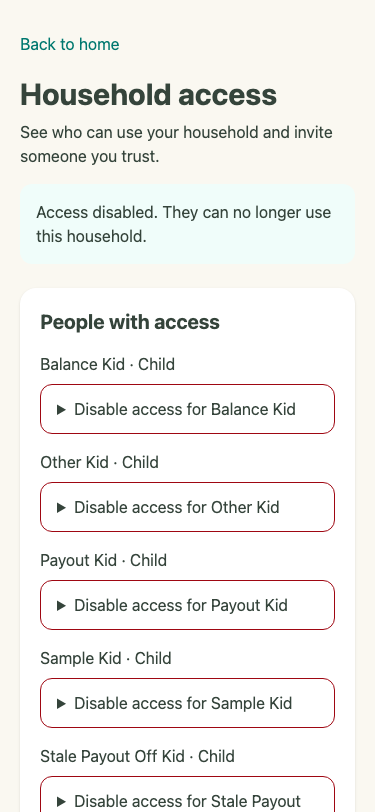
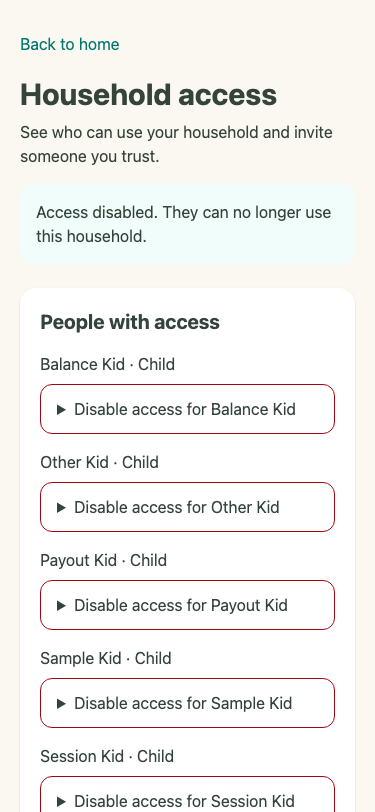
feat(sessions): let people review and sign out their own devices
Wraps Better Auth listSessions/revokeSession/revokeOtherSessions at
/settings/sessions; account-scoped, no raw tokens, cross-household
effect stated. Documents framework limits.

Changed region(s): [[0.528, 0.9236, 0.8213, 1.0], [0.1173, 0.9236, 0.4987, 0.9544]]

diff --git a/tests/sessions.integration.test.ts b/tests/sessions.integration.test.ts
@@ -1,0 +1,82 @@
+import { afterEach, expect, it } from 'vitest';
+import Database from 'better-sqlite3';
+import { createAuth, migrate, authorizeRequest } from '../src/lib/server/identity';
+import { SessionManagementError, listAccountSessions, revokeAccountSession, revokeOtherAccountSessions } from '../src/lib/server/sessions';
+import { disableMember } from '../src/lib/server/household-access';
+
+const origin = 'http://localhost:3000';
+const dbs: Database.Database[] = [];
+afterEach(() => { for (const db of dbs.splice(0)) db.close(); });
+const post = (path: string, body: unknown) => new Request(`${origin}/api/auth/${path}`, { method: 'POST', headers: { 'content-type': 'application/json', origin, 'user-agent': 'Mozilla/5.0 (iPhone; CPU iPhone OS 17_0 like Mac OS X) AppleWebKit/605.1.15 Version/17.0 Mobile/15E148 Safari/604.1' }, body: JSON.stringify(body) });
+
+async function fixture() {
+  const db = new Database(':memory:'); dbs.push(db); db.pragma('foreign_keys = ON');
+  await migrate(db);
+  const auth = createAuth(db, { secret: 'synthetic-session-test-secret-over-32-characters', origin, allowSignUp: true, autoSignIn: false });
+  const make = async (name: string, email: string) => (await auth.api.signUpEmail({ body: { name, email, password: 'synthetic-password-123' } })).user.id;
+  const parent = await make('Parent', 'parent@example.test'), kid = await make('Kid', 'kid@example.test');
+  db.prepare('INSERT INTO household (id, name) VALUES (?, ?), (?, ?)').run('house-a', 'A', 'house-b', 'B');
+  const add = db.prepare('INSERT INTO membership (user_id, household_id, role) VALUES (?, ?, ?)');
+  add.run(parent, 'house-a', 'parent'); add.run(kid, 'house-a', 'kid'); add.run(kid, 'house-b', 'kid');
+  const signIn = async (email: string) => new Headers({ cookie: (await auth.handler(post('sign-in/email', { email, password: 'synthetic-password-123' }))).headers.get('set-cookie')!.split(';')[0], origin });
+  return { db, auth, parent, kid, signIn };
+}
+
+it('lists only the caller\'s sessions, marks the current one and never exposes a token', async () => {
+  const f = await fixture();
+  const phone = await f.signIn('kid@example.test'), laptop = await f.signIn('kid@example.test'), parentSession = await f.signIn('parent@example.test');
+  const sessions = await listAccountSessions(f.auth, phone);
+  expect(sessions).toHaveLength(2);
+  expect(sessions.filter((s) => s.current)).toHaveLength(1);
+  expect(sessions[0].device).toBe('Safari on iOS');
+  const tokens = (f.db.prepare('SELECT token FROM session').all() as { token: string }[]).map((r) => r.token);
+  for (const token of tokens) expect(JSON.stringify(sessions).includes(token)).toBe(false);
+  expect((await listAccountSessions(f.auth, parentSession))).toHaveLength(1);
+  void laptop;
+});
+
+it('revokes one other session, refuses another account\'s id and the current session, and tolerates repeats', async () => {
+  const f = await fixture();
+  const phone = await f.signIn('kid@example.test'), laptop = await f.signIn('kid@example.test'), parentSession = await f.signIn('parent@example.test');
+  const [other] = (await listAccountSessions(f.auth, phone)).filter((s) => !s.current);
+  const [parentRow] = await listAccountSessions(f.auth, parentSession);
+  expect(await revokeAccountSession(f.auth, phone, parentRow.id)).toEqual({ revoked: false });
+  expect(await f.auth.api.getSession({ headers: parentSession })).not.toBeNull();
+  const [self] = (await listAccountSessions(f.auth, phone)).filter((s) => s.current);
+  expect(await revokeAccountSession(f.auth, phone, self.id)).toEqual({ revoked: false });
+  expect(await revokeAccountSession(f.auth, phone, other.id)).toEqual({ revoked: true });
+  expect(await revokeAccountSession(f.auth, phone, other.id)).toEqual({ revoked: false });
+  expect(await f.auth.api.getSession({ headers: laptop })).toBeNull();
+  expect(await f.auth.api.getSession({ headers: phone })).not.toBeNull();
+});
+
+it('signs out other devices across every household without touching membership or other accounts', async () => {
+  const f = await fixture();
+  const phone = await f.signIn('kid@example.test'), laptop = await f.signIn('kid@example.test'), parentSession = await f.signIn('parent@example.test');
+  const members = JSON.stringify(f.db.prepare('SELECT * FROM membership ORDER BY 1, 2').all());
+  await revokeOtherAccountSessions(f.auth, phone);
+  expect(await f.auth.api.getSession({ headers: laptop })).toBeNull();
+  expect(await authorizeRequest(f.auth, f.db, laptop, 'house-a', 'read')).toBe(false);
+  expect(await authorizeRequest(f.auth, f.db, laptop, 'house-b', 'read')).toBe(false);
+  expect(await authorizeRequest(f.auth, f.db, phone, 'house-b', 'read')).toBe(true);
+  expect(await f.auth.api.getSession({ headers: parentSession })).not.toBeNull();
+  expect(JSON.stringify(f.db.prepare('SELECT * FROM membership ORDER BY 1, 2').all())).toBe(members);
+});
+
+it('keeps session management separate from household membership', async () => {
+  const f = await fixture();
+  const kid = await f.signIn('kid@example.test');
+  disableMember(f.db, f.parent, 'house-a', f.kid);
+  expect(await listAccountSessions(f.auth, kid)).toHaveLength(1);
+  expect(await authorizeRequest(f.auth, f.db, kid, 'house-a', 'read')).toBe(false);
+  expect(await authorizeRequest(f.auth, f.db, kid, 'house-b', 'read')).toBe(true);
+});
+
+it('rejects anonymous callers and asks an old session to sign in again', async () => {
+  const f = await fixture();
+  await expect(listAccountSessions(f.auth, new Headers())).rejects.toMatchObject({ code: 'signed-out' });
+  const headers = await f.signIn('kid@example.test');
+  f.db.prepare('UPDATE session SET createdAt = ?').run(Date.now() - 3 * 24 * 60 * 60 * 1000);
+  await expect(listAccountSessions(f.auth, headers)).rejects.toBeInstanceOf(SessionManagementError);
+  await expect(listAccountSessions(f.auth, headers)).rejects.toMatchObject({ code: 'reauthenticate' });
+});

diff --git a/src/lib/server/sessions.ts b/src/lib/server/sessions.ts
@@ -1,0 +1,57 @@
+import type { createAuth } from './identity';
+
+type Auth = ReturnType<typeof createAuth>;
+
+/**
+ * Account-level session management over Better Auth's own session API. Sessions are global
+ * to an account and carry no household, so everything here is scoped to the signed-in user:
+ * a parent never sees or revokes another person's sessions, and ending a session says nothing
+ * about household membership (that is `household-access.ts`). Raw session tokens never leave
+ * this module; callers get the session row id.
+ */
+export type SessionSummary = { id: string; current: boolean; device: string; createdAt: number; lastActiveAt: number; expiresAt: number };
+
+export class SessionManagementError extends Error {
+  constructor(readonly code: 'signed-out' | 'reauthenticate' | 'unavailable') { super(code); }
+}
+
+function describeDevice(userAgent: string | null | undefined) {
+  if (!userAgent) return 'Unknown device';
+  const browser = /Edg\//.test(userAgent) ? 'Edge' : /Firefox\//.test(userAgent) ? 'Firefox' : /Chrome\//.test(userAgent) ? 'Chrome' : /Safari\//.test(userAgent) ? 'Safari' : 'Browser';
+  const system = /iPhone|iPad/.test(userAgent) ? 'iOS' : /Android/.test(userAgent) ? 'Android' : /Mac OS X/.test(userAgent) ? 'macOS' : /Windows/.test(userAgent) ? 'Windows' : /Linux/.test(userAgent) ? 'Linux' : 'Unknown system';
+  return `${browser} on ${system}`;
+}
+
+async function entries(auth: Auth, headers: Headers) {
+  const current = await auth.api.getSession({ headers });
+  if (!current) throw new SessionManagementError('signed-out');
+  try {
+    // Better Auth requires a recently created session to list; an older one must sign in again.
+    const sessions = await auth.api.listSessions({ headers });
+    return { current, sessions };
+  } catch { throw new SessionManagementError('reauthenticate'); }
+}
+
+export async function listAccountSessions(auth: Auth, headers: Headers): Promise<SessionSummary[]> {
+  const { current, sessions } = await entries(auth, headers);
+  return sessions
+    .map((session) => ({ id: session.id, current: session.token === current.session.token, device: describeDevice(session.userAgent), createdAt: new Date(session.createdAt).getTime(), lastActiveAt: new Date(session.updatedAt).getTime(), expiresAt: new Date(session.expiresAt).getTime() }))
+    .sort((a, b) => Number(b.current) - Number(a.current) || b.lastActiveAt - a.lastActiveAt || a.id.localeCompare(b.id));
+}
+
+/** Ends one of the caller's other sessions. An id that is not the caller's, or is already gone, changes nothing. */
+export async function revokeAccountSession(auth: Auth, headers: Headers, id: string): Promise<{ revoked: boolean }> {
+  const { current, sessions } = await entries(auth, headers);
+  const target = sessions.find((session) => session.id === id);
+  if (!target || target.token === current.session.token) return { revoked: false };
+  try { await auth.api.revokeSession({ headers, body: { token: target.token } }); }
+  catch { throw new SessionManagementError('unavailable'); }
+  return { revoked: true };
+}
+
+/** Ends every session except the current one, on every device and for every household the account belongs to. */
+export async function revokeOtherAccountSessions(auth: Auth, headers: Headers) {
+  if (!await auth.api.getSession({ headers })) throw new SessionManagementError('signed-out');
+  try { await auth.api.revokeOtherSessions({ headers }); }
+  catch { throw new SessionManagementError('unavailable'); }
+}

diff --git a/e2e/sessions.spec.ts b/e2e/sessions.spec.ts
@@ -1,0 +1,44 @@
+import { expect, test, type Browser } from '@playwright/test';
+
+const base = 'http://127.0.0.1:4173';
+async function device(browser: Browser) {
+  const context = await browser.newContext({ viewport: { width: 375, height: 812 } });
+  const page = await context.newPage();
+  await page.goto('/sign-in');
+  await page.getByLabel('Email').fill('session-kid@example.test');
+  await page.getByLabel('Password').fill('synthetic-session-kid-password');
+  await page.getByRole('button', { name: 'Sign in' }).click();
+  await expect(page.getByRole('heading', { name: "Session Kid's My Day" })).toBeVisible();
+  return { context, page };
+}
+
+test('a user signs out one other device, then all others, against real sessions', async ({ browser }) => {
+  const phone = await device(browser), laptop = await device(browser), tablet = await device(browser);
+  try {
+    await phone.page.goto('/settings/sessions');
+    await expect(phone.page.getByRole('heading', { name: 'Signed-in devices' })).toBeVisible();
+    await expect(phone.page.getByText(/· This device/)).toHaveCount(1);
+    const token = (await phone.context.cookies()).find((cookie) => cookie.name.includes('session_token'))?.value ?? '';
+    expect(token.length).toBeGreaterThan(10);
+    expect(await phone.page.content()).not.toContain(token.split('.')[0]);
+    const rows = phone.page.getByRole('listitem').filter({ hasText: 'Signed in' });
+    await expect(rows).toHaveCount(3);
+    const other = rows.filter({ hasNotText: /· This device/ }).first();
+    await other.getByText('Sign out this device').click();
+    await other.getByRole('button', { name: /Confirm sign out of/ }).click();
+    await expect(phone.page.getByRole('status')).toContainText('was signed out');
+    await expect(rows).toHaveCount(2);
+    await phone.page.screenshot({ path: 'docs/screenshots/sessions-mobile.png' });
+    const forged = await phone.page.request.post('/settings/sessions?/revoke', { form: { id: 'not-a-session' }, headers: { origin: base } });
+    expect(JSON.stringify(await forged.json())).toContain('already gone');
+    const crossOrigin = await phone.page.request.post('/settings/sessions?/revokeOthers', { form: {}, headers: { origin: 'https://attacker.example.test' } });
+    expect(crossOrigin.status()).toBe(403);
+    await phone.page.getByText('Sign out all other devices').click();
+    await phone.page.getByRole('button', { name: 'Confirm sign out of all other devices' }).click();
+    await expect(phone.page.getByRole('status')).toContainText('All other devices were signed out');
+    await expect(rows).toHaveCount(1);
+    const survivors = await Promise.all([laptop, tablet].map(async ({ page }) => (await page.request.get('/dashboard', { maxRedirects: 0 })).status()));
+    expect(survivors.filter((status) => status === 200).length).toBe(0);
+    expect((await phone.page.request.get('/dashboard')).status()).toBe(200);
+  } finally { await phone.context.close(); await laptop.context.close(); await tablet.context.close(); }
+});

diff --git a/src/routes/settings/sessions/+page.svelte b/src/routes/settings/sessions/+page.svelte
@@ -1,0 +1,27 @@
+<script lang="ts">
+  import { resolve } from '$app/paths';
+  import type { PageData } from './$types';
+  let { data, form }: { data: PageData; form: { message?: string } | null } = $props();
+  const when = (value: number) => new Date(value).toLocaleString();
+</script>
+<svelte:head><title>Signed-in devices · Fleck Home Hub</title></svelte:head>
+<main class="mx-auto max-w-3xl px-5 py-8">
+  <a href={resolve('/dashboard')} class="text-teal-700">Back to home</a>
+  <h1 class="mt-5 text-3xl font-bold">Signed-in devices</h1>
+  <p class="mt-2">These are the devices signed in to your account. Signing a device out affects your whole account, so it applies to every household you belong to. It does not change who is a member of a household; parents manage that under Household access.</p>
+  {#if form?.message}<p role="status" class="mt-4 rounded-xl bg-teal-50 p-4">{form.message}</p>{/if}
+  {#if data.reauthenticate}
+    <section class="mt-6 rounded-2xl bg-white p-5 shadow-sm"><h2 class="text-xl font-bold">Sign in again to continue</h2><p class="mt-2">For your security, this page needs a recent sign-in. Sign out, then sign in again to manage your devices.</p>
+      <form method="POST" action={resolve('/sign-out')} class="mt-3"><button class="rounded-xl border border-teal-700 px-4 py-3">Sign out</button></form></section>
+  {:else}
+  <section class="mt-6 rounded-2xl bg-white p-5 shadow-sm"><h2 class="text-xl font-bold">Your sessions</h2>
+    <ul>{#each data.sessions as session (session.id)}<li class="mt-4"><p>{session.device}{session.current ? ' · This device' : ''}</p><p class="text-sm">Signed in {when(session.createdAt)} · expires {when(session.expiresAt)}</p>
+      {#if !session.current}<details class="mt-2"><summary class="cursor-pointer rounded-xl border border-red-800 px-4 py-3">Sign out this device</summary><p class="mt-2">This device will need to sign in again.</p><form method="POST" action="?/revoke" class="mt-2"><input type="hidden" name="id" value={session.id} /><button class="rounded-xl bg-red-800 px-4 py-3 font-bold text-white">Confirm sign out of {session.device}</button></form></details>{/if}</li>{/each}</ul>
+  </section>
+  {#if data.sessions.length > 1}
+  <section class="mt-6 rounded-2xl bg-white p-5 shadow-sm"><h2 class="text-xl font-bold">Lost a device or unsure?</h2>
+    <details class="mt-2"><summary class="cursor-pointer rounded-xl border border-red-800 px-4 py-3">Sign out all other devices</summary><p class="mt-2">Every other device will be signed out of your account and all of its households. This device stays signed in.</p><form method="POST" action="?/revokeOthers" class="mt-2"><button class="rounded-xl bg-red-800 px-4 py-3 font-bold text-white">Confirm sign out of all other devices</button></form></details>
+  </section>
+  {/if}
+  {/if}
+</main>

diff --git a/src/routes/settings/sessions/+page.server.ts b/src/routes/settings/sessions/+page.server.ts
@@ -1,0 +1,39 @@
+import { fail, redirect } from '@sveltejs/kit';
+import type { Actions, PageServerLoad } from './$types';
+import { getIdentityServices } from '../../../lib/server/runtime';
+import { SessionManagementError, listAccountSessions, revokeAccountSession, revokeOtherAccountSessions } from '../../../lib/server/sessions';
+
+function services() { return getIdentityServices(); }
+const failure = (error: unknown) => {
+  if (error instanceof SessionManagementError && error.code === 'signed-out') redirect(303, '/sign-in');
+  if (error instanceof SessionManagementError && error.code === 'reauthenticate') return fail(403, { message: 'For your security, sign in again before managing sessions.' });
+  return fail(400, { message: 'That could not be completed. Reload and try again.' });
+};
+
+export const load: PageServerLoad = async ({ request }) => {
+  const { auth } = services();
+  try { return { sessions: await listAccountSessions(auth, request.headers), reauthenticate: false }; }
+  catch (error) {
+    if (error instanceof SessionManagementError && error.code === 'reauthenticate') return { sessions: [], reauthenticate: true };
+    return failure(error) as never;
+  }
+};
+
+export const actions = {
+  revoke: async ({ request }) => {
+    const { auth, origin } = services();
+    if (request.headers.get('origin') !== origin) return fail(403, { message: 'Request not authorized.' });
+    const form = await request.formData();
+    try {
+      const { revoked } = await revokeAccountSession(auth, request.headers, String(form.get('id') ?? ''));
+      return { message: revoked ? 'That device was signed out.' : 'That session is already gone.' };
+    } catch (error) { return failure(error); }
+  },
+  revokeOthers: async ({ request }) => {
+    const { auth, origin } = services();
+    if (request.headers.get('origin') !== origin) return fail(403, { message: 'Request not authorized.' });
+    try { await revokeOtherAccountSessions(auth, request.headers); }
+    catch (error) { return failure(error); }
+    return { message: 'All other devices were signed out.' };
+  }
+} satisfies Actions;

diff --git a/scripts/e2e-server.ts b/scripts/e2e-server.ts
@@ -45,6 +45,10 @@ db.prepare('INSERT INTO membership (user_id, household_id, role) VALUES (?, ?, ?
 db.prepare('INSERT INTO household (id, name) VALUES (?, ?)').run('synthetic-race-household', 'Race household');
 db.prepare('INSERT INTO membership (user_id, household_id, role) VALUES (?, ?, ?)').run(raceOne.user.id, 'synthetic-race-household', 'parent');
 db.prepare('INSERT INTO membership (user_id, household_id, role) VALUES (?, ?, ?)').run(raceTwo.user.id, 'synthetic-race-household', 'parent');
+const sessionKid = await auth.api.signUpEmail({ body: { name: 'Session Kid', email: 'session-kid@example.test', password: 'synthetic-session-kid-password' } });
+db.prepare('INSERT INTO membership (user_id, household_id, role) VALUES (?, ?, ?)').run(sessionKid.user.id, household.id, 'kid');
+// Sign-up auto-created a session; the journey counts only the devices it signs in.
+db.prepare('DELETE FROM session WHERE userId = ?').run(sessionKid.user.id);
 const seededAt = new Date().toISOString();
 db.prepare("INSERT INTO chore (id, household_id, assignee_id, title, due_date, reward_cents, status, created_at, updated_at) VALUES ('revoke-pending-chore', ?, ?, 'Revocation pending chore', '2026-11-01', 250, 'pending_verification', ?, ?)").run(household.id, revokeKid.user.id, seededAt, seededAt);
 db.close();

diff --git a/src/hooks.server.ts b/src/hooks.server.ts
@@ -18,6 +18,6 @@ export const handle: Handle = async ({ event, resolve }) => {
   response.headers.set('x-frame-options', 'DENY');
   response.headers.set('referrer-policy', event.url.pathname.startsWith('/accept-invitation') || event.url.pathname.startsWith('/settings/household') ? 'origin' : 'same-origin');
   if (event.url.pathname.startsWith('/accept-invitation') || event.url.pathname.startsWith('/settings/household')) response.headers.set('cache-control', 'no-store');
-  if (event.url.pathname === '/dashboard' || event.url.pathname.startsWith('/display') || event.url.pathname.startsWith('/calendar') || event.url.pathname.startsWith('/meals') || event.url.pathname.startsWith('/groceries') || event.url.pathname.startsWith('/api/')) response.headers.set('cache-control', 'no-store');
+  if (event.url.pathname === '/dashboard' || event.url.pathname.startsWith('/display') || event.url.pathname.startsWith('/calendar') || event.url.pathname.startsWith('/meals') || event.url.pathname.startsWith('/groceries') || event.url.pathname.startsWith('/settings/sessions') || event.url.pathname.startsWith('/api/')) response.headers.set('cache-control', 'no-store');
   return response;
 };

diff --git a/src/routes/dashboard/+page.svelte b/src/routes/dashboard/+page.svelte
@@ -155,5 +155,6 @@
       </article>
     {/each}
   </section>
+  <p class="mt-8"><a href={resolve('/settings/sessions')} class="text-teal-700">Signed-in devices</a></p>
   <form method="POST" action={resolve('/sign-out')}><button class="mt-8 rounded-xl border border-teal-700 px-4 py-3 text-teal-700">Sign out</button></form>
 </main>

diff --git a/docs/household-access.md b/docs/household-access.md
@@ -37,3 +37,19 @@ A parent can disable one member of one household. The row stays, with `disabled_
 - Authorization is checked per request against the database; there is no cache to invalidate.
 - Pre-existing: routes with several households pick the first by id rather than a user-selected one.
 - Browser tests were run against the dev server; real-device and tailnet behavior remain unverified.
+
+## Session management (PR B2)
+
+`/settings/sessions` (linked from the home page, any signed-in role) wraps the pinned Better Auth 1.7.14 session API: `listSessions`, `revokeSession` and `revokeOtherSessions`. No custom cookies or Better Auth internals are involved.
+
+- **Scope is the caller's own account.** Sessions are global to an account and carry no household. A parent cannot list or end another person's sessions, and ending a session never changes membership. Both directions are tested: membership denial leaves the session valid, and signing a device out leaves membership untouched.
+- **Cross-household effect is stated on the page.** Signing a device out ends it for every household the account belongs to.
+- **No raw tokens.** The page and responses carry only the session row id; the server maps an id to a token inside `src/lib/server/sessions.ts` and only for sessions that `listSessions` returned for the caller. An unknown, foreign or already-ended id changes nothing.
+- **Actions.** End one other session, or end all other sessions (the current one stays). Each is a native POST behind a confirmation disclosure, with the origin check used elsewhere.
+- **Freshness.** Better Auth lists sessions only for a recently created session (its freshness window, one day by default). An older session sees a "sign in again" screen instead of a list; this is framework behavior, not custom code.
+
+### Limits
+
+- A parent **cannot end a disabled or other member's sessions**: the pinned framework exposes no administrator session API, and enabling the admin plugin is a separate, larger decision. Disabling membership blocks the household without it; the person's session remains valid for their other households, as intended.
+- There is no "sign out everywhere including this device" action; use sign out after ending the others. There is no automatic revocation on password change because there is no password-change flow yet.
+- Device labels come from the User-Agent header and are only a hint. IP addresses are not shown because forwarded headers are not trusted.
